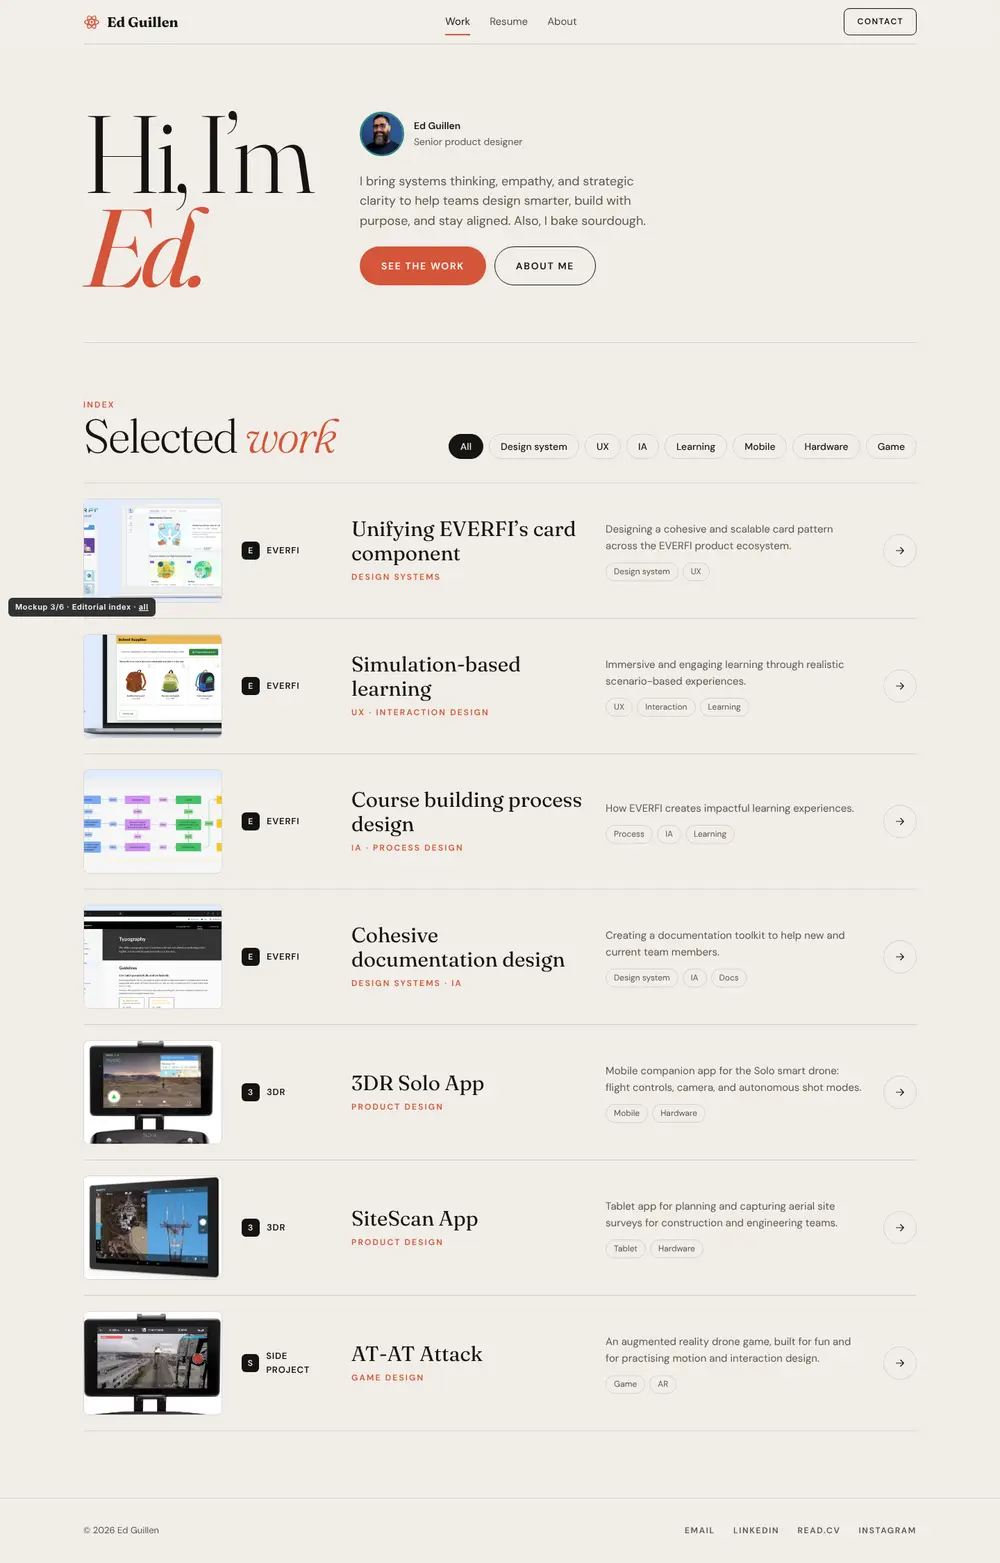
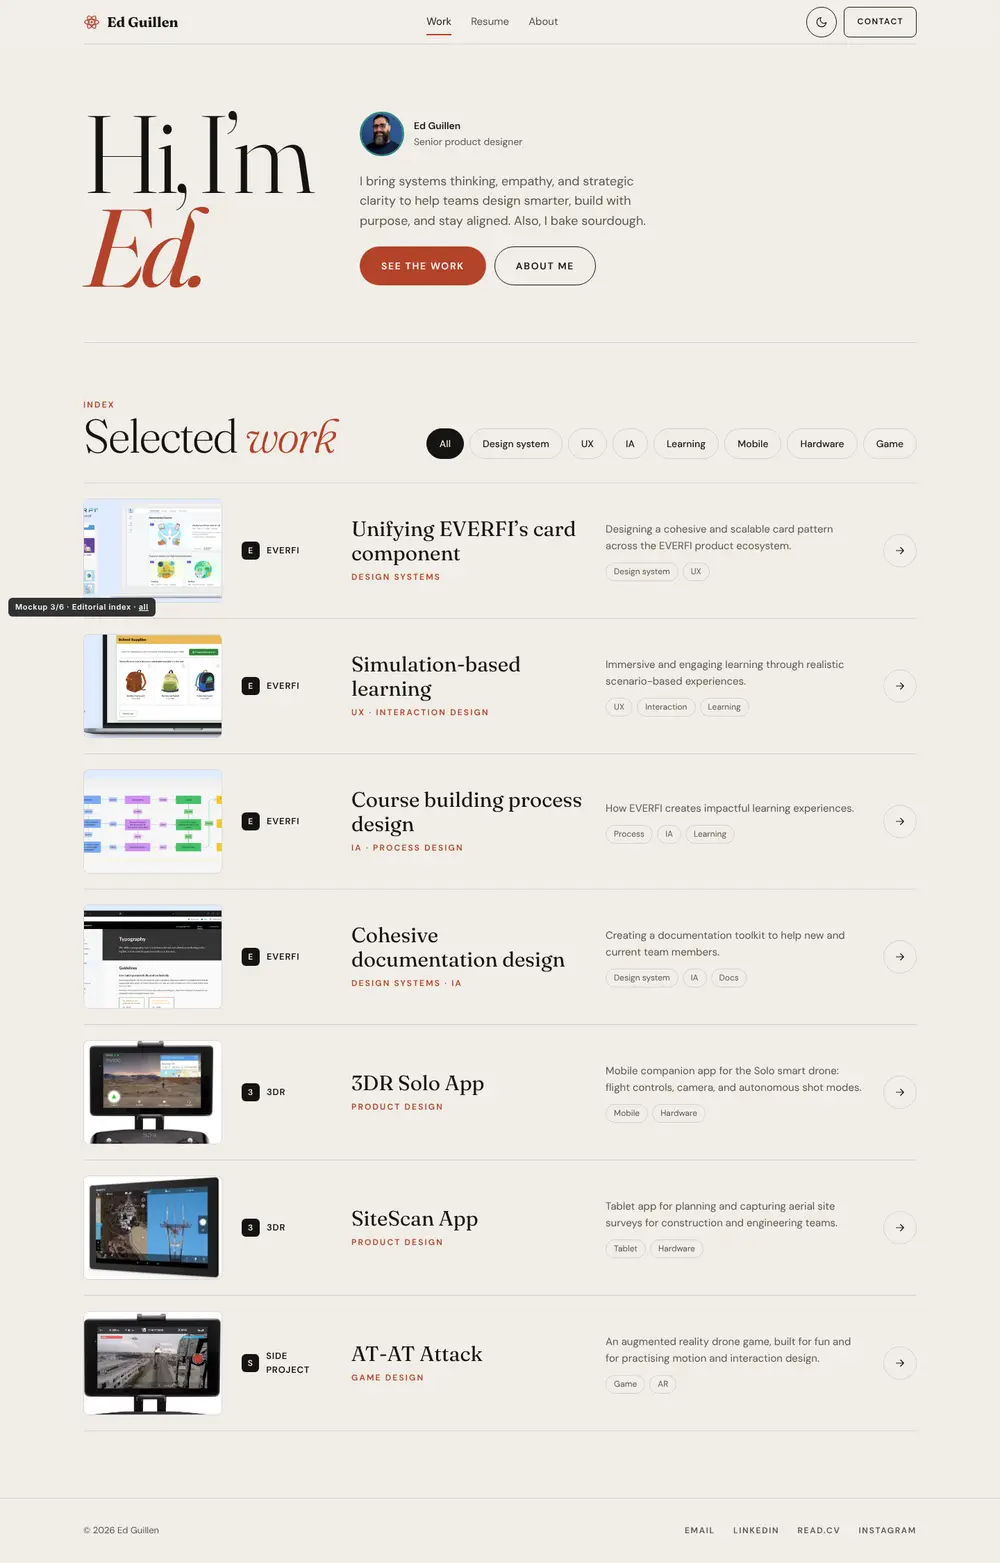
Add dark mode to option 3
Follows the system setting by default; the nav toggle overrides it and
is remembered. Dark tokens keep text and buttons at AA contrast.

Claude-Session: https://claude.ai/code/session_01V62YoDNKRuaqKkQd4G4KVd

diff --git a/mockups/3.html b/mockups/3.html
@@ -5,6 +5,7 @@
 <meta name="viewport" content="width=device-width, initial-scale=1">
 <meta name="robots" content="noindex">
 <title>Mockup 3 · Editorial index</title>
+<script>try{var t=localStorage.getItem("uxed-theme")}catch(e){}document.documentElement.dataset.theme=t||(matchMedia("(prefers-color-scheme: dark)").matches?"dark":"light")</script>
 <link rel="preconnect" href="https://fonts.googleapis.com"><link rel="preconnect" href="https://fonts.gstatic.com" crossorigin>
 <link rel="stylesheet" href="https://fonts.googleapis.com/css2?family=Fraunces:ital,opsz,wght@0,9..144,300..700;1,9..144,300..600&family=DM+Sans:wght@400;500;600&display=swap">
 <style>
@@ -32,6 +33,7 @@ ul{margin:0;padding:0;list-style:none}
 .nav__end{display:flex;align-items:center;gap:10px}
 .theme{width:44px;height:44px;border-radius:50%;border:1px solid currentColor;background:none;color:inherit;display:grid;place-items:center;cursor:pointer}
 .theme:hover{color:var(--accent)}
+.t-sun{display:none}.t-moon{display:block}[data-theme=dark] .t-sun{display:block}[data-theme=dark] .t-moon{display:none}
 .tags{display:flex;flex-wrap:wrap;gap:6px}
 .tags li{font-family:var(--ui);font-size:12px;padding:3px 11px;border:1px solid var(--line);border-radius:999px;color:var(--ink-2)}
 .foot{border-top:1px solid var(--line);margin-top:96px}
@@ -47,7 +49,10 @@ ul{margin:0;padding:0;list-style:none}
 @media (max-width:760px){.links,.nav__end .btn--sm{display:none}.menu-btn{display:flex}body{font-size:16px}}
 @media (min-width:761px){.sheet{display:none!important}}
 @media (prefers-reduced-motion:reduce){*,*::before,*::after{animation:none!important;transition:none!important}}
-:root{--bg:#f7f4ee;--card:#fffdf9;--ink:#151312;--ink-2:#5c554d;--line:rgba(21,19,18,.14);--accent:#d4553a;--accent-hover:#b9452c;--on-accent:#fff;--navy:#16283a;--teal:#1f8a7d;--bg:#f1ede7;--card:#faf7f4;--accent:#b4432a;--accent-hover:#9a3822;--display:"Fraunces",Georgia,serif;--ui:"DM Sans",system-ui,sans-serif;--body:"DM Sans",system-ui,sans-serif}
+:root{--bg:#f7f4ee;--card:#fffdf9;--ink:#151312;--ink-2:#5c554d;--line:rgba(21,19,18,.14);--accent:#d4553a;--accent-hover:#b9452c;--on-accent:#fff;--navy:#16283a;--teal:#1f8a7d;--bg:#f1ede7;--card:#faf7f4;--accent:#b4432a;--accent-hover:#9a3822;--display:"Fraunces",Georgia,serif;--ui:"DM Sans",system-ui,sans-serif;--body:"DM Sans",system-ui,sans-serif;color-scheme:light}
+[data-theme=dark]{--bg:#151312;--card:#211e1c;--ink:#f3ece0;--ink-2:#b8b0a4;--line:rgba(243,236,224,.14);--accent:#e8674a;--accent-hover:#f07d61;--on-accent:#151312;--teal:#4bc2b0;color-scheme:dark}
+[data-theme=dark] .row__thumb{background:#2a2521}
+[data-theme=dark] .row__thumb img{filter:brightness(.88)}[data-theme=dark] .row:hover .row__thumb img{filter:none}
 .nav{background:color-mix(in srgb,var(--bg) 85%,transparent);backdrop-filter:blur(10px)}
 .nav__in{width:min(1200px,100% - 32px);margin-inline:auto;border-bottom:1px solid var(--line)}
 .hero{display:grid;grid-template-columns:auto 1fr;gap:clamp(24px,5vw,72px);align-items:end;padding-block:90px 70px;border-bottom:1px solid var(--line)}
@@ -96,7 +101,7 @@ ul{margin:0;padding:0;list-style:none}
 <header class="nav"><div class="nav__in">
   <a class="brand" href="/"><svg class="atom"  viewBox="0 0 24 24" width="24" height="24" fill="none" stroke="currentColor" stroke-width="1.4" aria-hidden="true"><circle cx="12" cy="12" r="1.7" fill="currentColor" stroke="none"/><ellipse cx="12" cy="12" rx="10" ry="4"/><ellipse cx="12" cy="12" rx="10" ry="4" transform="rotate(60 12 12)"/><ellipse cx="12" cy="12" rx="10" ry="4" transform="rotate(120 12 12)"/></svg><span>Ed Guillen</span></a>
   <nav class="links" aria-label="Primary"><a href="/" aria-current="page">Work</a><a href="/resume">Resume</a><a href="/about">About</a></nav>
-  <div class="nav__end"><a class="btn btn--ghost btn--sm" href="/contact">Contact</a><button class="menu-btn" type="button" aria-expanded="false" aria-controls="nav-sheet" aria-label="Menu" onclick="var o=this.getAttribute('aria-expanded')==='true';this.setAttribute('aria-expanded',!o);document.getElementById('nav-sheet').hidden=o"><span></span><span></span></button></div>
+  <div class="nav__end"><button class="theme" type="button" aria-label="Toggle light and dark theme" onclick="var r=document.documentElement,t=r.dataset.theme==='dark'?'light':'dark';r.dataset.theme=t;try{localStorage.setItem('uxed-theme',t)}catch(e){}"><svg class="t-sun" viewBox="0 0 24 24" width="18" height="18" fill="none" stroke="currentColor" stroke-width="1.6" stroke-linecap="round" aria-hidden="true"><circle cx="12" cy="12" r="4"/><path d="M12 2v2M12 20v2M2 12h2M20 12h2M4.9 4.9l1.4 1.4M17.7 17.7l1.4 1.4M4.9 19.1l1.4-1.4M17.7 6.3l1.4-1.4"/></svg><svg class="t-moon" viewBox="0 0 24 24" width="18" height="18" fill="none" stroke="currentColor" stroke-width="1.6" stroke-linecap="round" stroke-linejoin="round" aria-hidden="true"><path d="M21 12.8A9 9 0 1 1 11.2 3a7 7 0 0 0 9.8 9.8z"/></svg></button><a class="btn btn--ghost btn--sm" href="/contact">Contact</a><button class="menu-btn" type="button" aria-expanded="false" aria-controls="nav-sheet" aria-label="Menu" onclick="var o=this.getAttribute('aria-expanded')==='true';this.setAttribute('aria-expanded',!o);document.getElementById('nav-sheet').hidden=o"><span></span><span></span></button></div>
 </div><nav class="sheet" id="nav-sheet" aria-label="Primary" hidden><a href="/" aria-current="page">Work</a><a href="/resume">Resume</a><a href="/about">About</a><a href="/contact">Contact</a></nav></header>
 <main class="wrap">
 <section class="hero">

diff --git a/mockups/5.html b/mockups/5.html
@@ -5,6 +5,7 @@
 <meta name="viewport" content="width=device-width, initial-scale=1">
 <meta name="robots" content="noindex">
 <title>Mockup 5 · Warm dark, image-led</title>
+
 <link rel="preconnect" href="https://fonts.googleapis.com"><link rel="preconnect" href="https://fonts.gstatic.com" crossorigin>
 <link rel="stylesheet" href="https://fonts.googleapis.com/css2?family=Libre+Caslon+Text:ital,wght@0,400;0,700;1,400&family=DM+Sans:wght@400;500;600&display=swap">
 <style>
@@ -32,6 +33,7 @@ ul{margin:0;padding:0;list-style:none}
 .nav__end{display:flex;align-items:center;gap:10px}
 .theme{width:44px;height:44px;border-radius:50%;border:1px solid currentColor;background:none;color:inherit;display:grid;place-items:center;cursor:pointer}
 .theme:hover{color:var(--accent)}
+.t-sun{display:none}.t-moon{display:block}[data-theme=dark] .t-sun{display:block}[data-theme=dark] .t-moon{display:none}
 .tags{display:flex;flex-wrap:wrap;gap:6px}
 .tags li{font-family:var(--ui);font-size:12px;padding:3px 11px;border:1px solid var(--line);border-radius:999px;color:var(--ink-2)}
 .foot{border-top:1px solid var(--line);margin-top:96px}
@@ -104,7 +106,7 @@ ul{margin:0;padding:0;list-style:none}
 <header class="nav"><div class="nav__in">
   <a class="brand" href="/"><svg class="atom"  viewBox="0 0 24 24" width="24" height="24" fill="none" stroke="currentColor" stroke-width="1.4" aria-hidden="true"><circle cx="12" cy="12" r="1.7" fill="currentColor" stroke="none"/><ellipse cx="12" cy="12" rx="10" ry="4"/><ellipse cx="12" cy="12" rx="10" ry="4" transform="rotate(60 12 12)"/><ellipse cx="12" cy="12" rx="10" ry="4" transform="rotate(120 12 12)"/></svg><span>Ed Guillen</span></a>
   <nav class="links" aria-label="Primary"><a href="/" aria-current="page">Work</a><a href="/resume">Resume</a><a href="/about">About</a></nav>
-  <div class="nav__end"><button class="theme" type="button" aria-label="Toggle light and dark theme" onclick="var r=document.documentElement;r.dataset.theme=r.dataset.theme==='light'?'dark':'light'"><svg viewBox="0 0 24 24" width="16" height="16" fill="none" stroke="currentColor" stroke-width="1.6" stroke-linecap="round" aria-hidden="true"><circle cx="12" cy="12" r="4"/><path d="M12 2v2M12 20v2M2 12h2M20 12h2M4.9 4.9l1.4 1.4M17.7 17.7l1.4 1.4M4.9 19.1l1.4-1.4M17.7 6.3l1.4-1.4"/></svg></button><a class="btn btn--ghost btn--sm" href="/contact">Contact</a><button class="menu-btn" type="button" aria-expanded="false" aria-controls="nav-sheet" aria-label="Menu" onclick="var o=this.getAttribute('aria-expanded')==='true';this.setAttribute('aria-expanded',!o);document.getElementById('nav-sheet').hidden=o"><span></span><span></span></button></div>
+  <div class="nav__end"><button class="theme" type="button" aria-label="Toggle light and dark theme" onclick="var r=document.documentElement,t=r.dataset.theme==='dark'?'light':'dark';r.dataset.theme=t;try{localStorage.setItem('uxed-theme',t)}catch(e){}"><svg class="t-sun" viewBox="0 0 24 24" width="18" height="18" fill="none" stroke="currentColor" stroke-width="1.6" stroke-linecap="round" aria-hidden="true"><circle cx="12" cy="12" r="4"/><path d="M12 2v2M12 20v2M2 12h2M20 12h2M4.9 4.9l1.4 1.4M17.7 17.7l1.4 1.4M4.9 19.1l1.4-1.4M17.7 6.3l1.4-1.4"/></svg><svg class="t-moon" viewBox="0 0 24 24" width="18" height="18" fill="none" stroke="currentColor" stroke-width="1.6" stroke-linecap="round" stroke-linejoin="round" aria-hidden="true"><path d="M21 12.8A9 9 0 1 1 11.2 3a7 7 0 0 0 9.8 9.8z"/></svg></button><a class="btn btn--ghost btn--sm" href="/contact">Contact</a><button class="menu-btn" type="button" aria-expanded="false" aria-controls="nav-sheet" aria-label="Menu" onclick="var o=this.getAttribute('aria-expanded')==='true';this.setAttribute('aria-expanded',!o);document.getElementById('nav-sheet').hidden=o"><span></span><span></span></button></div>
 </div><nav class="sheet" id="nav-sheet" aria-label="Primary" hidden><a href="/" aria-current="page">Work</a><a href="/resume">Resume</a><a href="/about">About</a><a href="/contact">Contact</a></nav></header>
 <section class="hero"><svg class="orbits" viewBox="-60 -60 120 120" fill="none" aria-hidden="true">
   <g class="orb orb--a"><ellipse rx="54" ry="20"/><circle class="e" cx="54" cy="0" r=".8"/></g>

diff --git a/mockups/6.html b/mockups/6.html
@@ -5,6 +5,7 @@
 <meta name="viewport" content="width=device-width, initial-scale=1">
 <meta name="robots" content="noindex">
 <title>Mockup 6 · Friend’s, tuned</title>
+
 <link rel="preconnect" href="https://fonts.googleapis.com"><link rel="preconnect" href="https://fonts.gstatic.com" crossorigin>
 <link rel="stylesheet" href="https://fonts.googleapis.com/css2?family=Libre+Caslon+Text:ital,wght@0,400;0,700;1,400&family=DM+Sans:wght@400;500;600&display=swap">
 <style>
@@ -32,6 +33,7 @@ ul{margin:0;padding:0;list-style:none}
 .nav__end{display:flex;align-items:center;gap:10px}
 .theme{width:44px;height:44px;border-radius:50%;border:1px solid currentColor;background:none;color:inherit;display:grid;place-items:center;cursor:pointer}
 .theme:hover{color:var(--accent)}
+.t-sun{display:none}.t-moon{display:block}[data-theme=dark] .t-sun{display:block}[data-theme=dark] .t-moon{display:none}
 .tags{display:flex;flex-wrap:wrap;gap:6px}
 .tags li{font-family:var(--ui);font-size:12px;padding:3px 11px;border:1px solid var(--line);border-radius:999px;color:var(--ink-2)}
 .foot{border-top:1px solid var(--line);margin-top:96px}
@@ -103,7 +105,7 @@ ul{margin:0;padding:0;list-style:none}
 <header class="nav"><div class="nav__in">
   <a class="brand" href="/"><svg class="atom"  viewBox="0 0 24 24" width="24" height="24" fill="none" stroke="currentColor" stroke-width="1.4" aria-hidden="true"><circle cx="12" cy="12" r="1.7" fill="currentColor" stroke="none"/><ellipse cx="12" cy="12" rx="10" ry="4"/><ellipse cx="12" cy="12" rx="10" ry="4" transform="rotate(60 12 12)"/><ellipse cx="12" cy="12" rx="10" ry="4" transform="rotate(120 12 12)"/></svg><span>Ed Guillen</span></a>
   <nav class="links" aria-label="Primary"><a href="/" aria-current="page">Work</a><a href="/resume">Resume</a><a href="/about">About</a></nav>
-  <div class="nav__end"><button class="theme" type="button" aria-label="Toggle light and dark theme" onclick="var r=document.documentElement;r.dataset.theme=r.dataset.theme==='light'?'dark':'light'"><svg viewBox="0 0 24 24" width="16" height="16" fill="none" stroke="currentColor" stroke-width="1.6" stroke-linecap="round" aria-hidden="true"><circle cx="12" cy="12" r="4"/><path d="M12 2v2M12 20v2M2 12h2M20 12h2M4.9 4.9l1.4 1.4M17.7 17.7l1.4 1.4M4.9 19.1l1.4-1.4M17.7 6.3l1.4-1.4"/></svg></button><a class="btn btn--ghost btn--sm" href="/contact">Contact</a><button class="menu-btn" type="button" aria-expanded="false" aria-controls="nav-sheet" aria-label="Menu" onclick="var o=this.getAttribute('aria-expanded')==='true';this.setAttribute('aria-expanded',!o);document.getElementById('nav-sheet').hidden=o"><span></span><span></span></button></div>
+  <div class="nav__end"><button class="theme" type="button" aria-label="Toggle light and dark theme" onclick="var r=document.documentElement,t=r.dataset.theme==='dark'?'light':'dark';r.dataset.theme=t;try{localStorage.setItem('uxed-theme',t)}catch(e){}"><svg class="t-sun" viewBox="0 0 24 24" width="18" height="18" fill="none" stroke="currentColor" stroke-width="1.6" stroke-linecap="round" aria-hidden="true"><circle cx="12" cy="12" r="4"/><path d="M12 2v2M12 20v2M2 12h2M20 12h2M4.9 4.9l1.4 1.4M17.7 17.7l1.4 1.4M4.9 19.1l1.4-1.4M17.7 6.3l1.4-1.4"/></svg><svg class="t-moon" viewBox="0 0 24 24" width="18" height="18" fill="none" stroke="currentColor" stroke-width="1.6" stroke-linecap="round" stroke-linejoin="round" aria-hidden="true"><path d="M21 12.8A9 9 0 1 1 11.2 3a7 7 0 0 0 9.8 9.8z"/></svg></button><a class="btn btn--ghost btn--sm" href="/contact">Contact</a><button class="menu-btn" type="button" aria-expanded="false" aria-controls="nav-sheet" aria-label="Menu" onclick="var o=this.getAttribute('aria-expanded')==='true';this.setAttribute('aria-expanded',!o);document.getElementById('nav-sheet').hidden=o"><span></span><span></span></button></div>
 </div><nav class="sheet" id="nav-sheet" aria-label="Primary" hidden><a href="/" aria-current="page">Work</a><a href="/resume">Resume</a><a href="/about">About</a><a href="/contact">Contact</a></nav></header>
 <section class="hero"><svg class="orbits" viewBox="-60 -60 120 120" fill="none" aria-hidden="true">
   <g class="orb orb--a"><ellipse rx="54" ry="20"/><circle class="e" cx="54" cy="0" r=".8"/></g>

diff --git a/mockups/4.html b/mockups/4.html
@@ -5,6 +5,7 @@
 <meta name="viewport" content="width=device-width, initial-scale=1">
 <meta name="robots" content="noindex">
 <title>Mockup 4 · Night hero, day body</title>
+
 <link rel="preconnect" href="https://fonts.googleapis.com"><link rel="preconnect" href="https://fonts.gstatic.com" crossorigin>
 <link rel="stylesheet" href="https://fonts.googleapis.com/css2?family=Libre+Caslon+Text:ital,wght@0,400;0,700;1,400&family=Fraunces:ital,opsz,wght@0,9..144,600..700;1,9..144,400&family=Jost:wght@400;500;600&family=Work+Sans:wght@400;500&display=swap">
 <style>
@@ -32,6 +33,7 @@ ul{margin:0;padding:0;list-style:none}
 .nav__end{display:flex;align-items:center;gap:10px}
 .theme{width:44px;height:44px;border-radius:50%;border:1px solid currentColor;background:none;color:inherit;display:grid;place-items:center;cursor:pointer}
 .theme:hover{color:var(--accent)}
+.t-sun{display:none}.t-moon{display:block}[data-theme=dark] .t-sun{display:block}[data-theme=dark] .t-moon{display:none}
 .tags{display:flex;flex-wrap:wrap;gap:6px}
 .tags li{font-family:var(--ui);font-size:12px;padding:3px 11px;border:1px solid var(--line);border-radius:999px;color:var(--ink-2)}
 .foot{border-top:1px solid var(--line);margin-top:96px}

diff --git a/mockups/1.html b/mockups/1.html
@@ -5,6 +5,7 @@
 <meta name="viewport" content="width=device-width, initial-scale=1">
 <meta name="robots" content="noindex">
 <title>Mockup 1 · Polished production</title>
+
 <link rel="preconnect" href="https://fonts.googleapis.com"><link rel="preconnect" href="https://fonts.gstatic.com" crossorigin>
 <link rel="stylesheet" href="https://fonts.googleapis.com/css2?family=Fraunces:ital,opsz,wght@0,9..144,300..700;1,9..144,300..600&family=Jost:wght@400;500;600&family=Work+Sans:wght@400;500&display=swap">
 <style>
@@ -32,6 +33,7 @@ ul{margin:0;padding:0;list-style:none}
 .nav__end{display:flex;align-items:center;gap:10px}
 .theme{width:44px;height:44px;border-radius:50%;border:1px solid currentColor;background:none;color:inherit;display:grid;place-items:center;cursor:pointer}
 .theme:hover{color:var(--accent)}
+.t-sun{display:none}.t-moon{display:block}[data-theme=dark] .t-sun{display:block}[data-theme=dark] .t-moon{display:none}
 .tags{display:flex;flex-wrap:wrap;gap:6px}
 .tags li{font-family:var(--ui);font-size:12px;padding:3px 11px;border:1px solid var(--line);border-radius:999px;color:var(--ink-2)}
 .foot{border-top:1px solid var(--line);margin-top:96px}

diff --git a/mockups/2.html b/mockups/2.html
@@ -5,6 +5,7 @@
 <meta name="viewport" content="width=device-width, initial-scale=1">
 <meta name="robots" content="noindex">
 <title>Mockup 2 · Light orbit</title>
+
 <link rel="preconnect" href="https://fonts.googleapis.com"><link rel="preconnect" href="https://fonts.gstatic.com" crossorigin>
 <link rel="stylesheet" href="https://fonts.googleapis.com/css2?family=Fraunces:ital,opsz,wght@0,9..144,300..700;1,9..144,300..600&family=Jost:wght@400;500;600&family=Work+Sans:wght@400;500&display=swap">
 <style>
@@ -32,6 +33,7 @@ ul{margin:0;padding:0;list-style:none}
 .nav__end{display:flex;align-items:center;gap:10px}
 .theme{width:44px;height:44px;border-radius:50%;border:1px solid currentColor;background:none;color:inherit;display:grid;place-items:center;cursor:pointer}
 .theme:hover{color:var(--accent)}
+.t-sun{display:none}.t-moon{display:block}[data-theme=dark] .t-sun{display:block}[data-theme=dark] .t-moon{display:none}
 .tags{display:flex;flex-wrap:wrap;gap:6px}
 .tags li{font-family:var(--ui);font-size:12px;padding:3px 11px;border:1px solid var(--line);border-radius:999px;color:var(--ink-2)}
 .foot{border-top:1px solid var(--line);margin-top:96px}

diff --git a/mockups/3-gtl.html b/mockups/3-gtl.html
@@ -5,6 +5,7 @@
 <meta name="viewport" content="width=device-width, initial-scale=1">
 <meta name="robots" content="noindex">
 <title>Mockup 3B · Editorial index · Good Times Lab</title>
+
 <link rel="preconnect" href="https://fonts.googleapis.com"><link rel="preconnect" href="https://fonts.gstatic.com" crossorigin>
 <link rel="stylesheet" href="https://fonts.googleapis.com/css2?family=Jost:ital,wght@0,400..700;1,400..700&family=Space+Mono:wght@400;700&display=swap">
 <style>
@@ -32,6 +33,7 @@ ul{margin:0;padding:0;list-style:none}
 .nav__end{display:flex;align-items:center;gap:10px}
 .theme{width:44px;height:44px;border-radius:50%;border:1px solid currentColor;background:none;color:inherit;display:grid;place-items:center;cursor:pointer}
 .theme:hover{color:var(--accent)}
+.t-sun{display:none}.t-moon{display:block}[data-theme=dark] .t-sun{display:block}[data-theme=dark] .t-moon{display:none}
 .tags{display:flex;flex-wrap:wrap;gap:6px}
 .tags li{font-family:var(--ui);font-size:12px;padding:3px 11px;border:1px solid var(--line);border-radius:999px;color:var(--ink-2)}
 .foot{border-top:1px solid var(--line);margin-top:96px}
